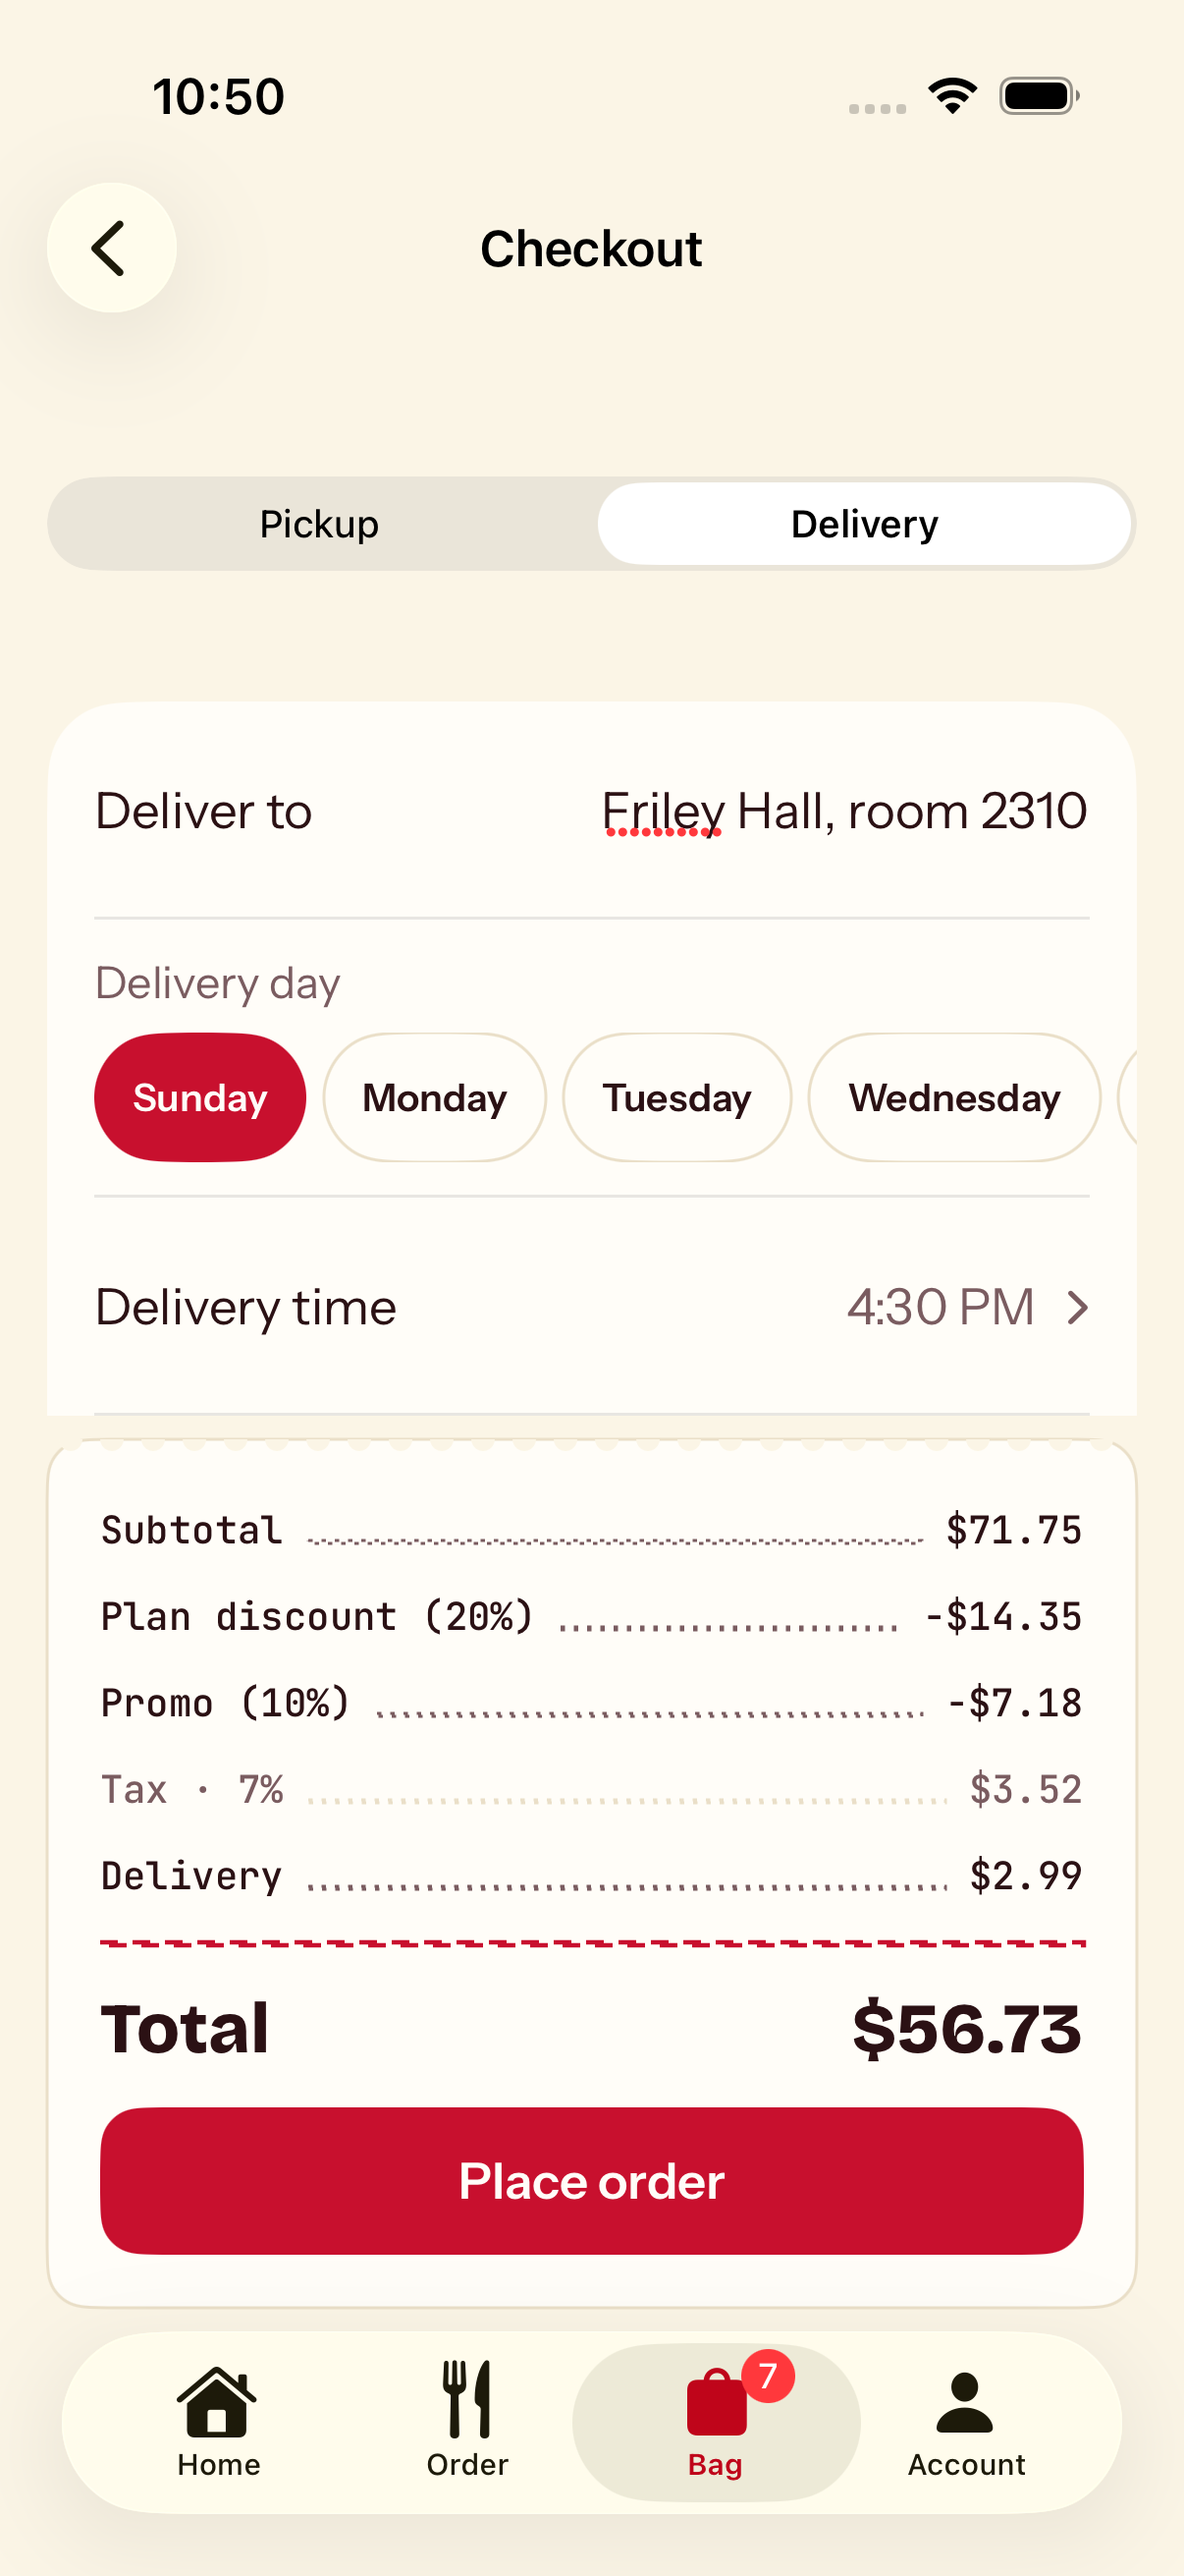
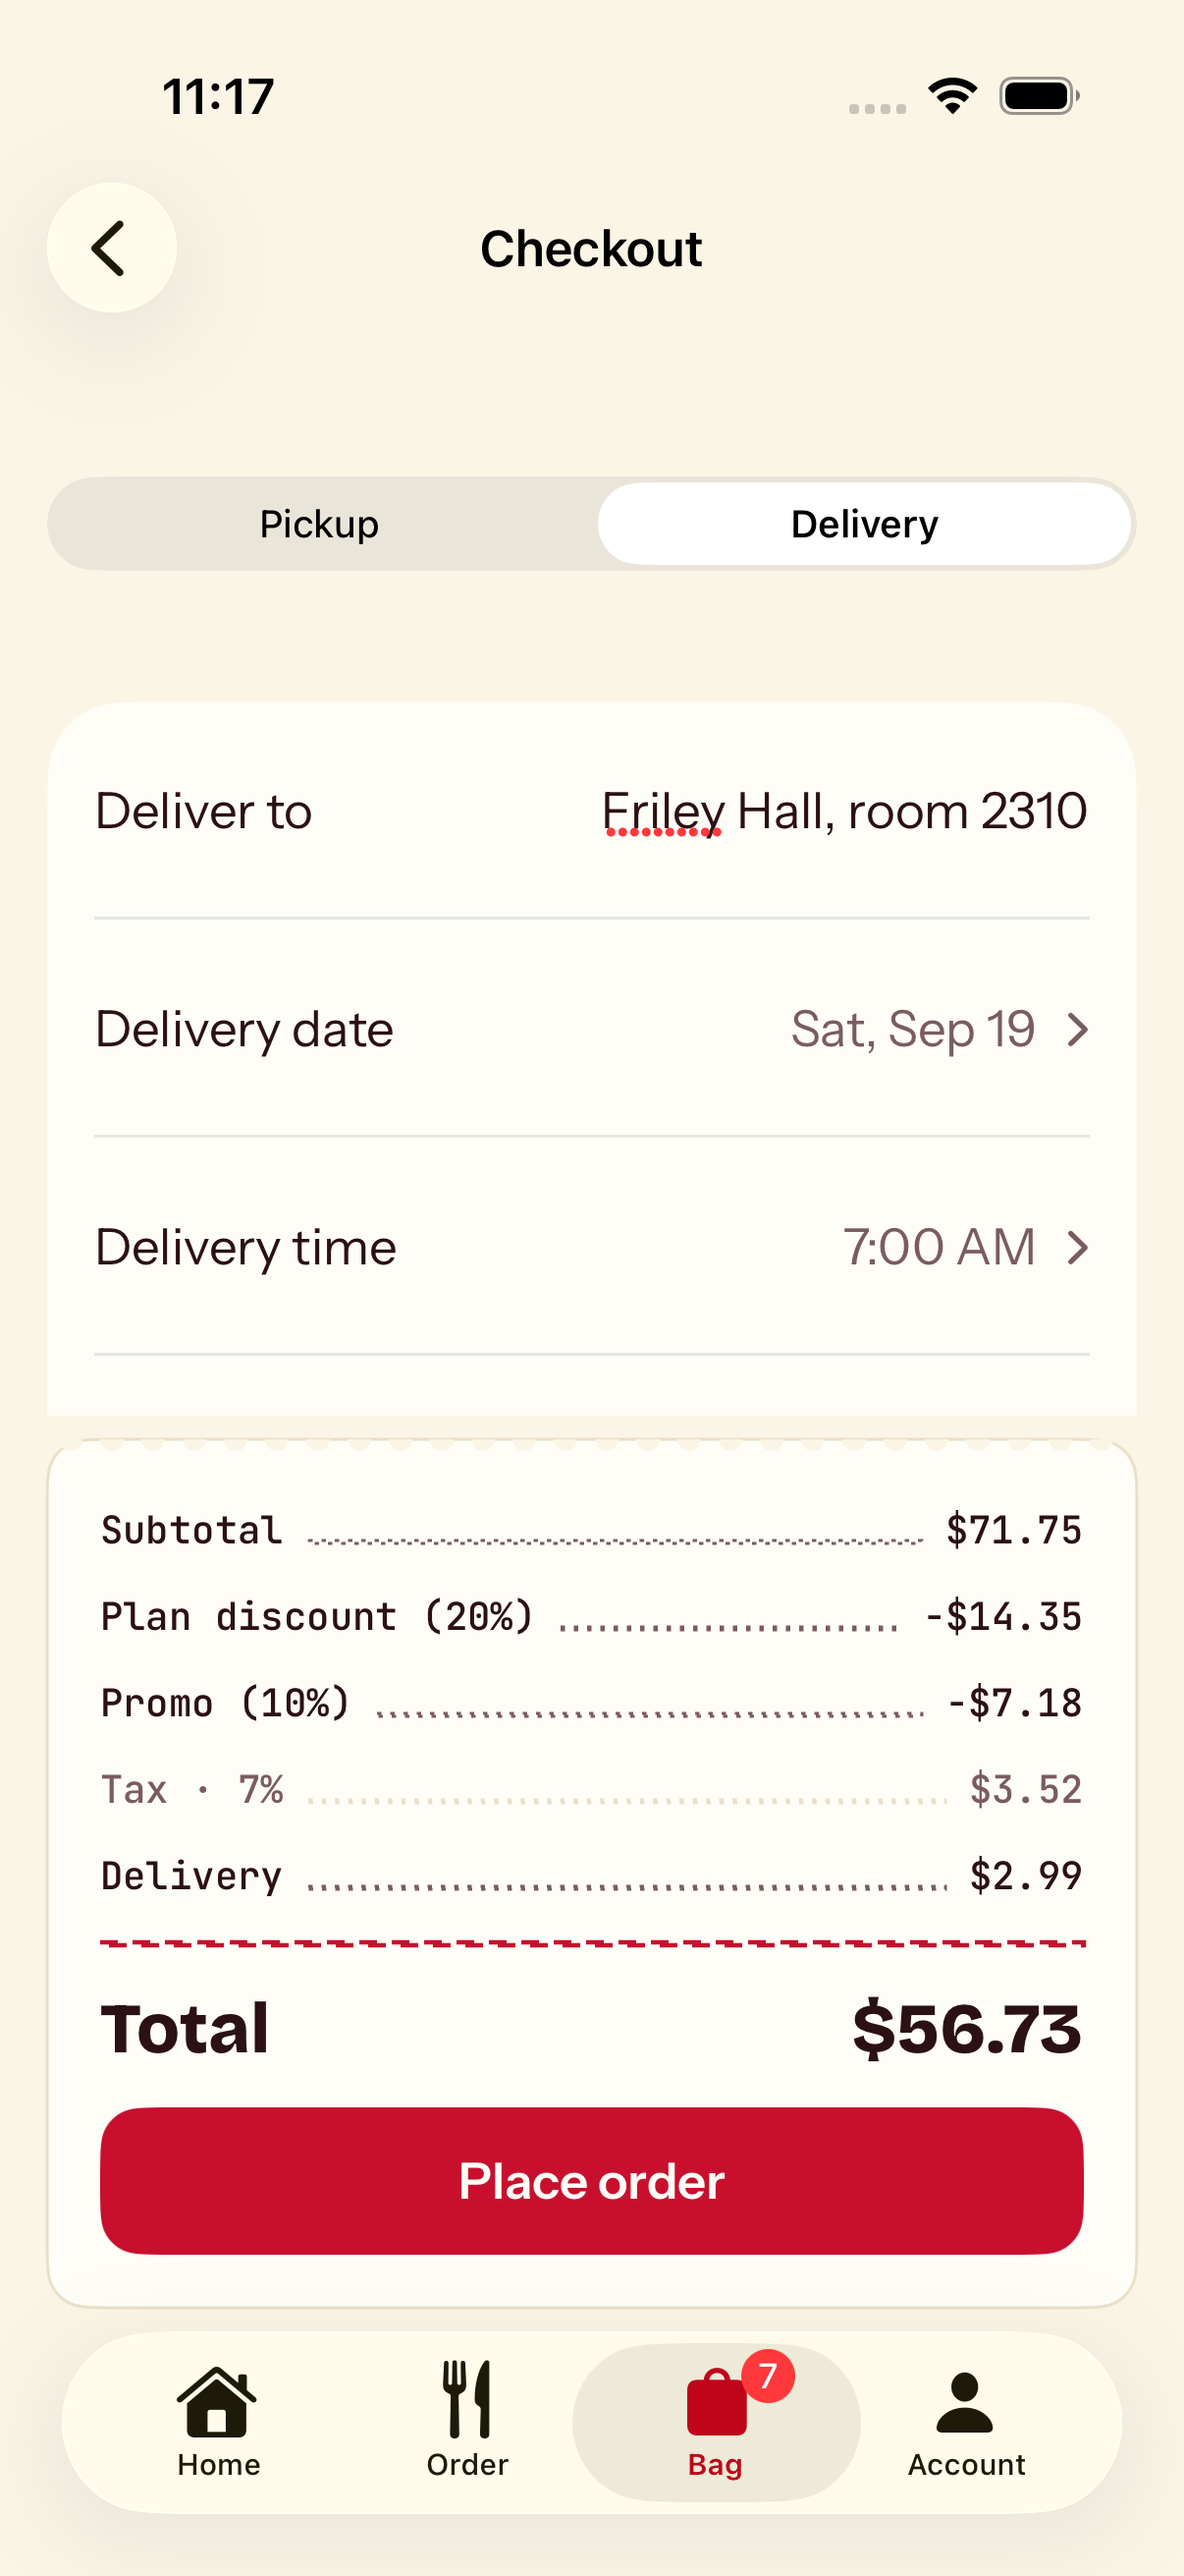
feat(ios): finish calendar date picker and UI walkthrough test

diff --git a/ios/AndrewsUITests/FlowTests.swift b/ios/AndrewsUITests/FlowTests.swift
@@ -21,6 +21,7 @@ final class FlowTests: XCTestCase {
 
     func testFullWalkthrough() throws {
         resetIfSignedIn()
+        var chosenDate = ""
 
         step("login") {
             let email = try require(app.textFields["you@iastate.edu"], "ISU email field")
@@ -108,7 +109,23 @@ final class FlowTests: XCTestCase {
             let address = try require(app.textFields["Friley Hall, room 2310"], "Deliver to field")
             address.tap()
             address.typeText("Friley Hall, room 2310\n")
-            try require(app.staticTexts["Delivery day"], "Delivery day label")
+
+            let defaultDate = try Self.defaultDateISO()
+            let dateRow = try require(app.buttons.matching(labelBeginsWith: "Delivery date").firstMatch, "Delivery date row")
+            guard dateRow.label.contains(Self.formatted(defaultDate)) else {
+                throw MissingElement(description: "Delivery date row showing \(Self.formatted(defaultDate)), found \(dateRow.label)")
+            }
+            dateRow.tap()
+            try require(app.buttons["Next month"], "calendar sheet")
+            settle()
+            snap("06b-calendar")
+            chosenDate = try pickDay(after: defaultDate)
+            try require(app.buttons.matching(labelContains: Self.formatted(chosenDate)).firstMatch, "Delivery date row showing \(Self.formatted(chosenDate))")
+
+            try require(app.buttons.matching(labelBeginsWith: "Delivery time").firstMatch, "Delivery time row").tap()
+            try require(app.buttons["7:30 AM"], "7:30 AM slot").tap()
+            try require(app.buttons.matching(labelContains: "7:30 AM").firstMatch, "Delivery time row showing 7:30 AM")
+
             let promo = try require(app.textFields["Enter code"], "promo field")
             scrollIntoView(promo, bottomInset: 340)
             promo.tap()
@@ -117,7 +134,7 @@ final class FlowTests: XCTestCase {
             try require(staticText(containing: "Promo"), "Promo line")
             try require(app.staticTexts["Delivery"], "Delivery ticket line")
             try require(staticText(containing: "$56.73"), "total $56.73")
-            try scrollFormToTop(until: app.staticTexts["Delivery day"], "Delivery day label")
+            try scrollFormToTop(until: dateRow, "Delivery date row")
             settle()
             snap("06-checkout")
         }
@@ -128,10 +145,12 @@ final class FlowTests: XCTestCase {
                 throw MissingElement(description: "enabled Place order button after entering an address")
             }
             placeOrder.tap()
-            try require(app.staticTexts["See you Sunday."], "See you Sunday.")
+            let weekday = Self.weekday(chosenDate)
+            try require(app.staticTexts["See you \(weekday)."], "See you \(weekday).")
             try require(app.staticTexts["Deliver to"], "Deliver to ticket line")
             try require(app.staticTexts["Friley Hall, room 2310"], "delivery address on the ticket")
-            try require(app.staticTexts["Arrives at 4:30 PM"], "Arrives at 4:30 PM")
+            try require(app.staticTexts[Self.formatted(chosenDate)], "\(Self.formatted(chosenDate)) on the ticket")
+            try require(app.staticTexts["Arrives at 7:30 AM"], "Arrives at 7:30 AM")
             try require(app.staticTexts["$56.73"], "total $56.73")
             settle()
             snap("07-confirmation")
@@ -143,9 +162,75 @@ final class FlowTests: XCTestCase {
             try require(app.staticTexts["Account"], "Account title")
             scrollListToTop()
             try require(app.staticTexts["56 pts"], "56 pts")
+            try require(staticText(containing: Self.formatted(chosenDate)), "\(Self.formatted(chosenDate)) in order history")
             settle()
             snap("08-account")
         }
+    }
+
+    // MARK: - Dates
+
+    /// Mirrors `Schedule.defaultSchedule`: today, unless the last slot at
+    /// 8:00 PM is under 30 minutes away, in which case tomorrow.
+    private static func defaultDateISO(now: Date = Date()) throws -> String {
+        let calendar = Calendar.current
+        var day = calendar.startOfDay(for: now)
+        let lastSlot = try XCTUnwrap(calendar.date(bySettingHour: 20, minute: 0, second: 0, of: day))
+        if now.addingTimeInterval(30 * 60) > lastSlot {
+            day = try XCTUnwrap(calendar.date(byAdding: .day, value: 1, to: day))
+        }
+        return formatter("yyyy-MM-dd").string(from: day)
+    }
+
+    /// "Thu, Sep 24", the same pattern the app uses.
+    private static func formatted(_ iso: String) -> String {
+        formatter("EEE, MMM d").string(from: date(iso))
+    }
+
+    private static func weekday(_ iso: String) -> String {
+        formatter("EEEE").string(from: date(iso))
+    }
+
+    private static func date(_ iso: String) -> Date {
+        guard let date = formatter("yyyy-MM-dd").date(from: iso) else {
+            preconditionFailure("Malformed date \(iso)")
+        }
+        return date
+    }
+
+    private static func formatter(_ pattern: String) -> DateFormatter {
+        let formatter = DateFormatter()
+        formatter.locale = Locale(identifier: "en_US_POSIX")
+        formatter.calendar = Calendar.current
+        formatter.timeZone = Calendar.current.timeZone
+        formatter.dateFormat = pattern
+        return formatter
+    }
+
+    /// Day cells carry their ISO date as label. Picks the first enabled day
+    /// after `iso` in the visible month, moving to the next month when the
+    /// visible one has none left, and returns the chosen ISO date.
+    private func pickDay(after iso: String) throws -> String {
+        let dayCells = app.buttons.matching(NSPredicate(format: "label MATCHES %@ AND enabled == YES", "\\d{4}-\\d{2}-\\d{2}"))
+        for _ in 0..<2 {
+            let candidates = dayCells.allElementsBoundByIndex.map { $0.label }.filter { $0 > iso }.sorted()
+            if let chosen = candidates.first {
+                let cell = app.buttons[chosen]
+                if !cell.isHittable {
+                    app.swipeUp(velocity: .slow)
+                    settle(0.6)
+                }
+                guard cell.isHittable else {
+                    throw MissingElement(description: "hittable day cell \(chosen)")
+                }
+                cell.tap()
+                settle(0.6)
+                return chosen
+            }
+            try require(app.buttons["Next month"], "Next month button").tap()
+            settle(0.6)
+        }
+        throw MissingElement(description: "an enabled day after \(iso)")
     }
 
     // MARK: - Flow helpers
